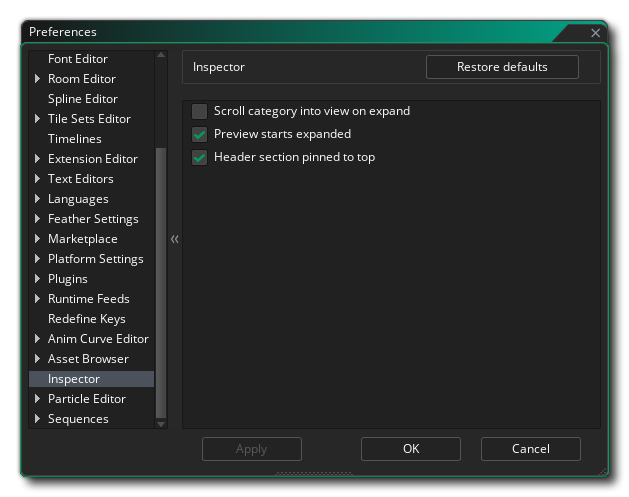
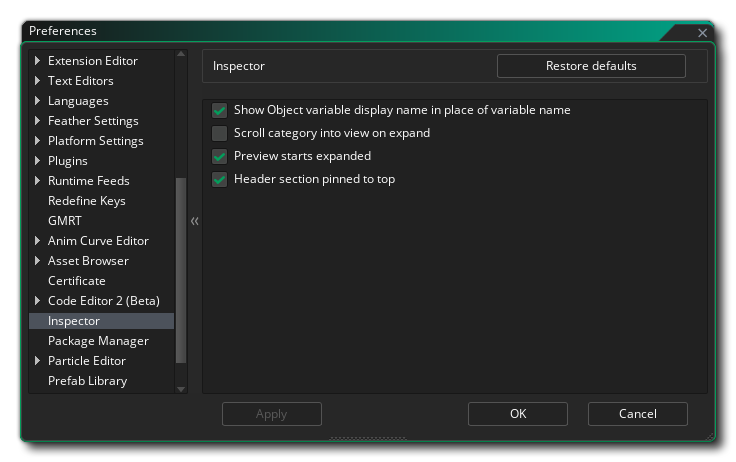
docs(feature): Document new Inspector preference for variable display names https://github.com/YoYoGames/GameMaker-Bugs/issues/13137

Changed region(s): [[0.0, 0.0303, 0.9968, 0.9697], [0.2719, 0.1212, 0.3927, 0.1515], [0.5739, 0.8788, 0.6041, 0.9091]]

diff --git a/Manual/contents/Setting_Up_And_Version_Information/IDE_Preferences/Inspector_Preferences.htm b/Manual/contents/Setting_Up_And_Version_Information/IDE_Preferences/Inspector_Preferences.htm
@@ -15,9 +15,10 @@
 <body>
   <!--<div class="body-scroll" style="top: 150px;">-->
   <h1>Inspector Preferences</h1>
-  <p><img alt="Inspector Preferences" class="center" height="497" src="../../assets/Images/Setup_And_Version/Preferences/Inspector_Prefs.png" width="629" /></p>
+  <p><img alt="Inspector Preferences" class="center" src="../../assets/Images/Setup_And_Version/Preferences/Inspector_Prefs.png" /></p>
   <p>The <strong><span data-field="title" data-format="default">Inspector Preferences</span></strong> are used to define how <a data-xref="{title}" href="../../IDE_Tools/The_Inspector.htm">The Inspector</a> looks and functions. The following options exist:</p>
   <ul class="colour">
+    <li><strong>Show Object variable display name in place of variable name</strong> - If this is enabled (which it is by default), child objects and instances of an object will show the Display Name in place of the <a href="../../The_Asset_Editors/Object_Properties/Object_Variables.htm">variable&#39;s name</a>, if one is set. Disabling this will make the variable&#39;s name appear instead of the Display Name even if one is set.</li>
     <li><strong>Scroll category into view on expand</strong> - This option makes sure all options under the category being expanded are moved into view by changing the scroll. It is disabled by default.</li>
     <li><strong>Preview starts expanded</strong> - This option determines if the preview section starts expanded when you open the Inspector. It is enabled by default.</li>
     <li><strong>Header section pinned to top</strong> - This option keeps the header section at the top of the Inspector when enabled. When disabled, the header scrolls  It is enabled by default.</li>
@@ -32,7 +33,7 @@
         <div style="float:right">Next: <a data-xref="{title}" href="Particle_Editor_Preferences.htm">Particle Editor Preferences</a></div>
       </div>
     </div>
-    <h5><span data-keyref="Copyright Notice">© Copyright YoYo Games Ltd. 2024 All Rights Reserved</span></h5>
+    <h5><span data-keyref="Copyright Notice">© Copyright YoYo Games Ltd. 2026 All Rights Reserved</span></h5>
   </div>
   <!-- KEYWORDS
 Preferences - Inspector
